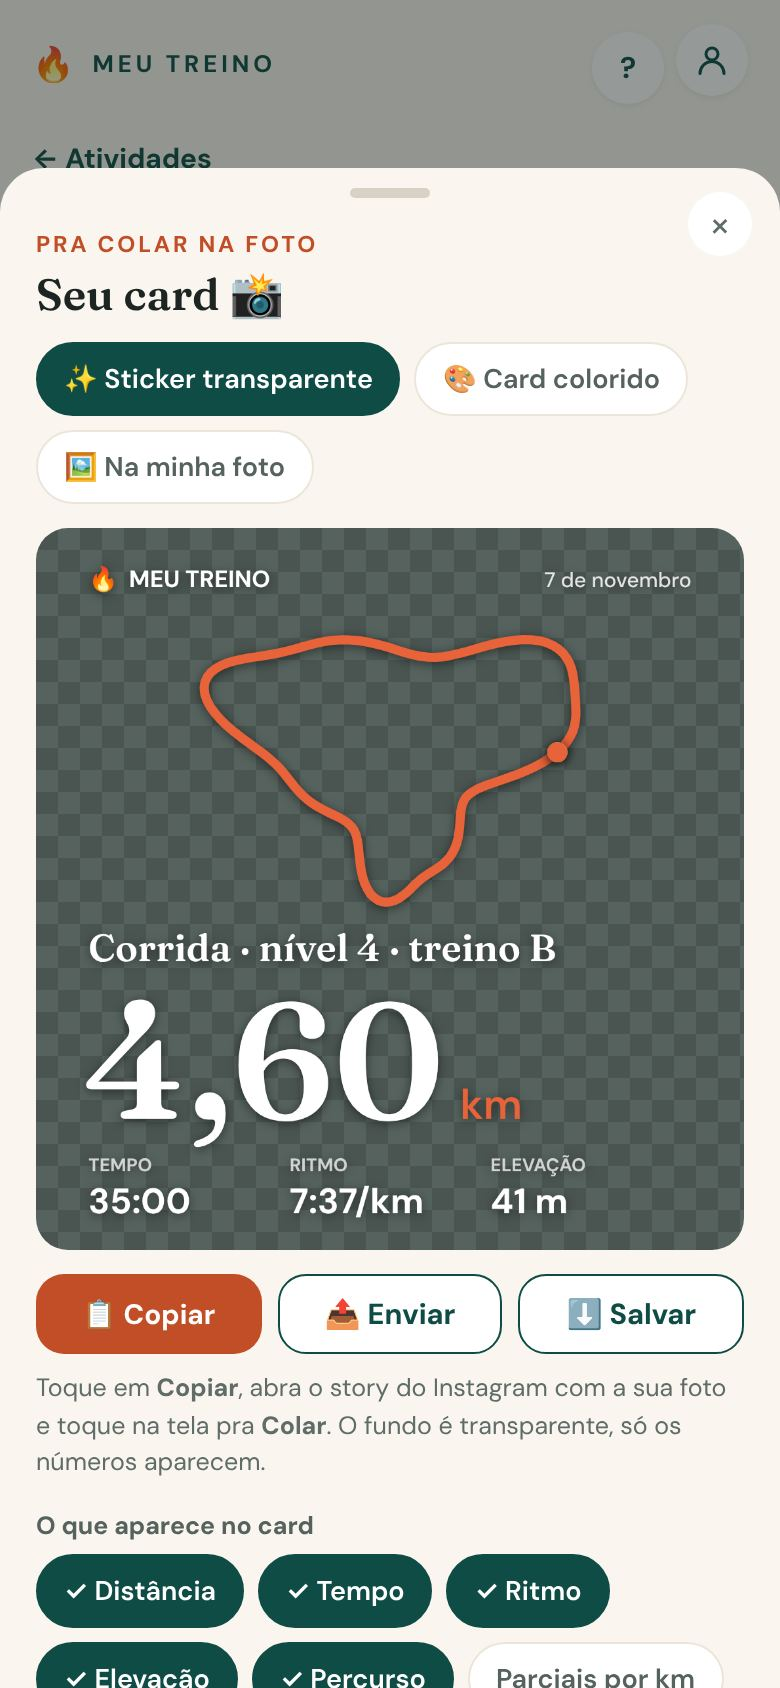
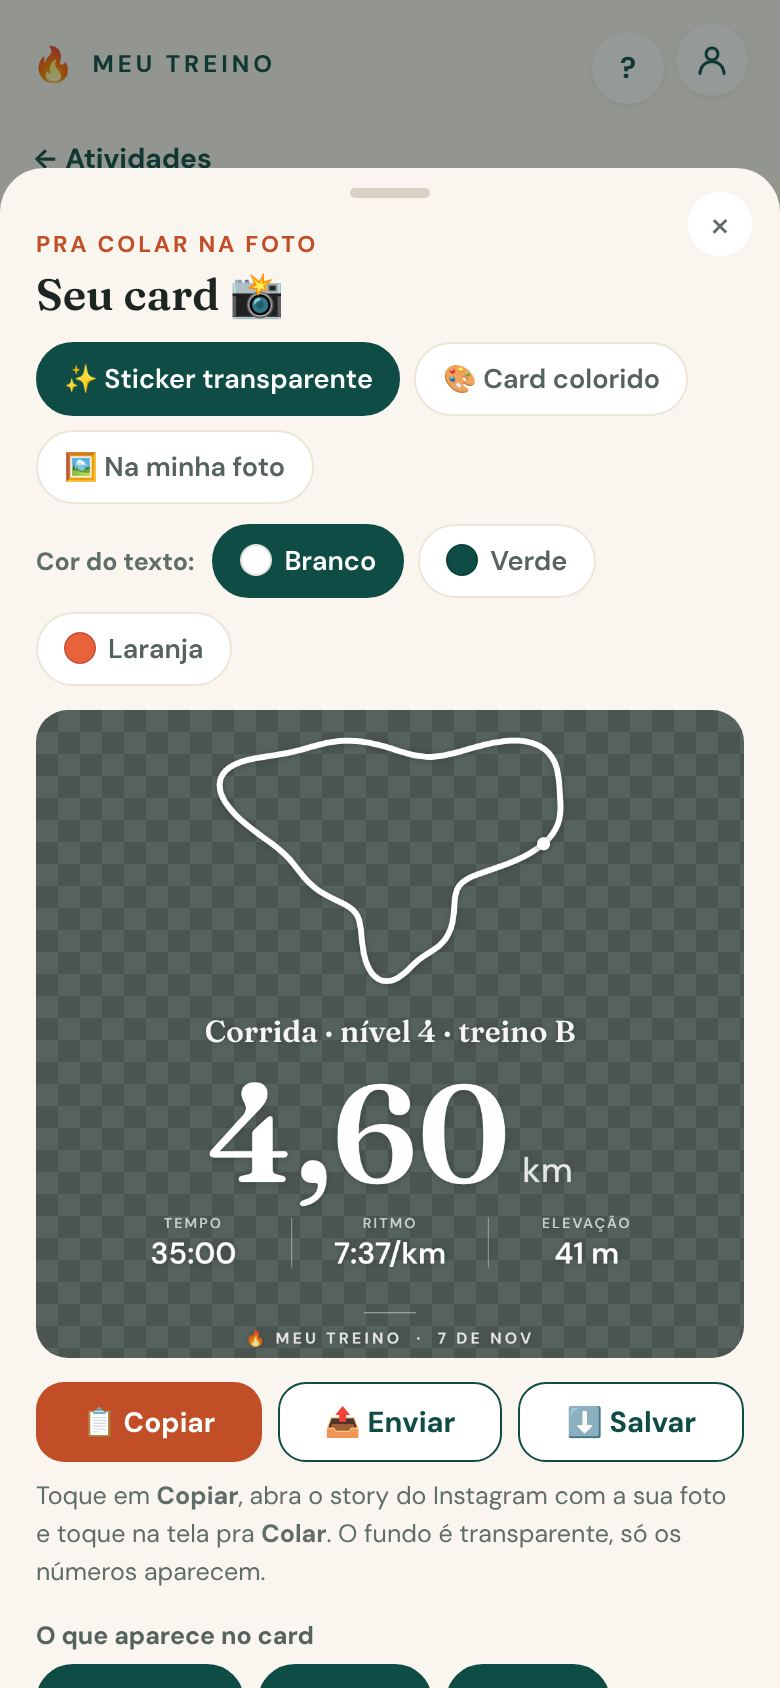
Sticker transparente refinado: centralizado, leve e sem moldura
Claude-Session: https://claude.ai/code/session_01ESR7NSNogttgArAGjMZm3F

Changed region(s): [[0.0308, 0.3081, 0.9538, 1.0]]

diff --git a/index.html b/index.html
@@ -182,7 +182,7 @@ details.card[open] summary .chev{transform:rotate(180deg)}
 <div id="toast"></div>
 
 <script>
-const APP_VERSION='4.4 · 09/11 19h';
+const APP_VERSION='4.5 · 09/11 19h';
 /* ================== DADOS ================== */
 const GROUPS={gluteo:'Glúteo',quadriceps:'Quadríceps',posterior:'Posterior de coxa',panturrilha:'Panturrilha',costas:'Costas',peito:'Peito',ombro:'Ombro',biceps:'Bíceps',triceps:'Tríceps',abdomen:'Abdômen'};
 
@@ -2612,7 +2612,39 @@ function drawRoute(ctx,route,x,y,w,h,color,width){if(route.length<2||h<60)return
 function fitFont(x,txt,max,min,weight,fam,w){let fs=max;do{x.font=weight+' '+fs+'px '+fam;fs-=2;}while(x.measureText(txt).width>w&&fs>min);}
 const CARD_THEMES={verde:{bg:['#0F4C45','#08302B'],ink:'#FFFFFF',acc:'#E8633A',blob:'#E8633A'},laranja:{bg:['#E8633A','#B84A26'],ink:'#FFFFFF',acc:'#FFE1CF',blob:'#FFFFFF'},creme:{bg:['#FAF6EF','#EFE5D3'],ink:'#0F4C45',acc:'#C24E28',blob:'#0F4C45'}};
 const CARD_INKS={branco:'#FFFFFF',verde:'#0F4C45',laranja:'#E8633A'};
+/* Sticker transparente: centralizado, leve e sem moldura, pra colar no story */
+async function makeSticker(d,sel,tinta){
+ try{await document.fonts.ready;}catch(e){}
+ const has=k=>sel.includes(k)&&d.f[k];
+ const bigK=(d.kind==='gym'?['tempo','exercicios']:['km','tempo']).find(k=>has(k)&&d.f[k].big);const big=bigK?d.f[bigK]:null;
+ const order=d.fields?d.fields.map(f=>f[0]):['tempo','km','ritmo','elevacao','exercicios','series','volume','recordes','intensidade','sequencia'];
+ const stats=order.filter(k=>has(k)&&k!==bigK&&d.f[k].v!=null&&!d.f[k].line).map(k=>d.f[k]).slice(0,6);
+ const lines=(d.kind==='act'?order.filter(k=>has(k)&&d.f[k].line).map(k=>d.f[k].v.replace(/^🎯 /,'')):has(d.kind==='run'?'parciais':'lista')?d.lines:[]).slice(0,4);
+ const route=has('percurso')&&d.route&&d.route.length>1?d.route:null;
+ const SANS='"DM Sans", system-ui, sans-serif',SERIF='"Fraunces", Georgia, serif';
+ const ink=CARD_INKS[tinta]||'#FFFFFF';const light=ink==='#FFFFFF';
+ const W=1080,cx=W/2;const rows=[];for(let i=0;i<stats.length;i+=3)rows.push(stats.slice(i,i+3));
+ const H=40+(route?420:0)+70+(big?230:0)+rows.length*118+(lines.length?30+lines.length*46:0)+110;
+ const c=document.createElement('canvas');c.width=W;c.height=H;const x=c.getContext('2d');
+ x.textAlign='center';x.textBaseline='alphabetic';
+ const soft=on=>{x.shadowColor=on&&light?'rgba(0,0,0,.22)':'transparent';x.shadowBlur=on&&light?10:0;x.shadowOffsetY=on&&light?1:0;};
+ soft(true);let y=40;
+ if(route){drawRoute(x,route,cx-260,y,520,380,ink,9);y+=420;}
+ x.fillStyle=ink;fitFont(x,d.title,46,28,600,SERIF,W-200);x.globalAlpha=.95;x.fillText(d.title,cx,y+46);x.globalAlpha=1;y+=70;
+ if(big){x.font='600 210px '+SERIF;const bw=x.measureText(big.big).width;x.font='500 54px '+SANS;const uw=big.u?x.measureText(big.u).width+18:0;
+  const sx=cx-(bw+uw)/2;x.textAlign='left';x.font='600 210px '+SERIF;x.fillText(big.big,sx,y+190);if(big.u){x.font='500 54px '+SANS;x.globalAlpha=.85;x.fillText(big.u,sx+bw+18,y+190);x.globalAlpha=1;}x.textAlign='center';y+=230;}
+ rows.forEach(r=>{const cw=Math.min(300,(W-120)/r.length);const x0=cx-cw*r.length/2;
+  r.forEach((st,i)=>{const sx=x0+cw*i+cw/2;x.globalAlpha=.72;x.font='600 22px '+SANS;x.save();try{x.letterSpacing='3px';}catch(e){}x.fillText(st.l.toUpperCase(),sx,y+30);x.restore();x.globalAlpha=1;fitFont(x,st.v,46,26,600,SANS,cw-24);x.fillText(st.v,sx,y+84);
+   if(i>0){soft(false);x.globalAlpha=.35;x.fillRect(x0+cw*i-1,y+14,2,76);x.globalAlpha=1;soft(true);}});
+  y+=118;});
+ if(lines.length){y+=30;x.font='500 30px '+SANS;x.globalAlpha=.88;lines.forEach(l=>{let t=l;while(x.measureText(t).width>W-200&&t.length>8)t=t.slice(0,-2);if(t!==l)t=t.trim()+'…';x.fillText(t,cx,y+32);y+=46;});x.globalAlpha=1;}
+ y+=40;soft(false);x.globalAlpha=.4;x.fillRect(cx-40,y,80,2);x.globalAlpha=1;soft(true);
+ x.font='700 24px '+SANS;x.globalAlpha=.85;x.save();try{x.letterSpacing='5px';}catch(e){}
+ const dt=has('data')?'  ·  '+new Date(d.date+'T12:00:00').toLocaleDateString('pt-BR',{day:'numeric',month:'short'}).replace('.','').toUpperCase():'';
+ x.fillText('🔥 MEU TREINO'+dt,cx,y+48);x.restore();x.globalAlpha=1;
+ x.shadowColor='transparent';return c;}
 async function makeCard(d,sel,style,photo,tema,tinta){
+ if(style==='sticker')return makeSticker(d,sel,tinta);
  try{await document.fonts.ready;}catch(e){}
  const has=k=>sel.includes(k)&&d.f[k];
  const bigK=(d.kind==='gym'?['tempo','exercicios']:['km','tempo']).find(k=>has(k)&&d.f[k].big);const big=bigK?d.f[bigK]:null;

diff --git a/sw.js b/sw.js
@@ -1,5 +1,5 @@
 /* Meu Treino — funciona offline e se atualiza sozinho quando há internet */
-const CACHE = 'meutreino-v31';
+const CACHE = 'meutreino-v32';
 const CORE = ['./', './index.html', './manifest.json', './icons/icon-180.png', './icons/icon-192.png', './icons/icon-512.png'];
 
 self.addEventListener('install', e => {
